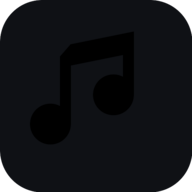
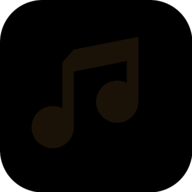
Помітна іконка на домашньому екрані
Була темна нота на майже чорному тлі — на темних шпалерах вона просто
зливалася. Тепер навпаки: теплий градієнт як фон і темна нота, тож іконка
видно на будь-яких шпалерах.

Плюс окрема версія для систем, які обрізають іконку під свою форму: фон на
всю площу, нота менша й по центру, щоб її не зрізало по краях.

Changed region(s): [[0.1562, 0.1875, 0.7188, 0.75]]

diff --git a/vite.config.ts b/vite.config.ts
@@ -23,7 +23,14 @@ export default defineConfig({
         icons: [
           { src: 'icon-192.png', sizes: '192x192', type: 'image/png' },
           { src: 'icon-512.png', sizes: '512x512', type: 'image/png' },
-          { src: 'icon-512.png', sizes: '512x512', type: 'image/png', purpose: 'maskable' },
+          // Окрема версія для систем, які обрізають іконку під свою форму:
+          // фон на всю площу, а нота менша й по центру, щоб її не зрізало
+          {
+            src: 'icon-maskable-512.png',
+            sizes: '512x512',
+            type: 'image/png',
+            purpose: 'maskable',
+          },
         ],
       },
       workbox: {
